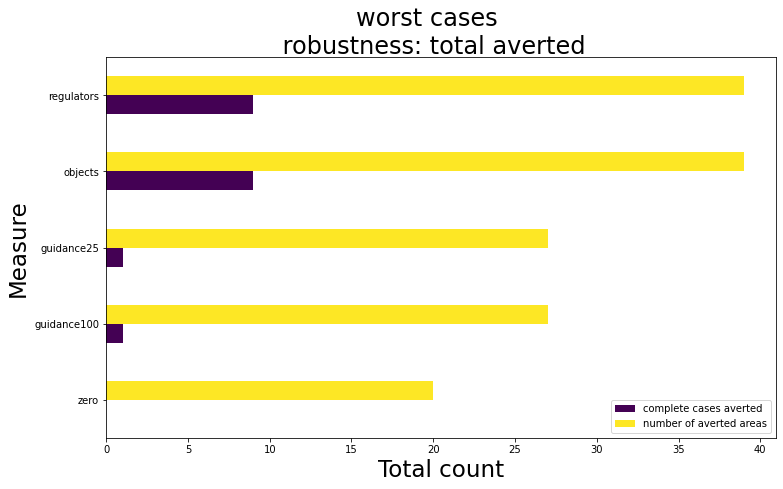
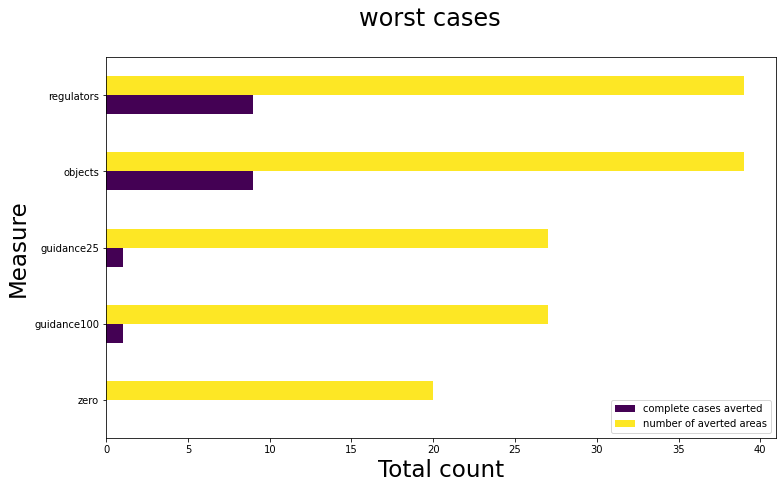
updated figures and docs

Changed region(s): [[0.3678, 0.0, 0.7663, 0.1227]]

diff --git a/analysis/control_exploration_results.py b/analysis/control_exploration_results.py
@@ -334,7 +334,7 @@ if __name__ == "__main__":
     r_averted_s3[["complete cases averted", "number of averted areas"]].plot.barh(
         ax=ax, colormap="viridis", rot=0
     ).legend(loc="lower right")
-    fig.suptitle("worst cases \n robustness: total averted", fontsize=24)
+    fig.suptitle("worst cases", fontsize=24)
     ax.set_xlabel("Total count", fontsize=23)
     ax.set_ylabel(ylabel="Measure", fontsize=23)
     fig.savefig("../figures/controlStrategiesAvertedS3.png", bbox_inches="tight")
@@ -344,10 +344,10 @@ if __name__ == "__main__":
     r_mean_variance_s1[["meanSpeed"]].plot.barh(
         ax=ax, colormap="viridis", rot=0, legend=False
     )
-    fig.suptitle("Problematic cases \n robustness: mean variance", fontsize=24)
-    ax.set_xlabel("Mean variance score (higher is better)", fontsize=23)
-    ax.set_ylabel("Measure", fontsize=23)
-    plt.yticks(fontsize=22, weight="bold")
+    fig.suptitle("Problematic cases", fontsize=28)
+    ax.set_xlabel("Mean variance score", fontsize=28)
+    ax.set_ylabel("Measure", fontsize=28)
+    plt.yticks(fontsize=28, weight="bold")
     fig.savefig(
         "../figures/controlStrategiesMeanVarianceSpeedS1.png", bbox_inches="tight"
     )
@@ -355,10 +355,10 @@ if __name__ == "__main__":
     r_mean_variance_s2[["meanSpeed"]].plot.barh(
         ax=ax, colormap="viridis", rot=0, legend=False
     )
-    fig.suptitle("Good cases \n robustness: mean variance", fontsize=24)
-    ax.set_xlabel("Mean variance score (higher is better)", fontsize=23)
-    ax.set_ylabel("Measure", fontsize=23)
-    plt.yticks(fontsize=22, weight="bold")
+    fig.suptitle("Good cases", fontsize=28)
+    ax.set_xlabel("Mean variance score", fontsize=28)
+    ax.set_ylabel("Measure", fontsize=28)
+    plt.yticks(fontsize=28, weight="bold")
     fig.savefig(
         "../figures/controlStrategiesMeanVarianceSpeedS2.png", bbox_inches="tight"
     )
@@ -366,10 +366,10 @@ if __name__ == "__main__":
     r_mean_variance_s3[["meanSpeed"]].plot.barh(
         ax=ax, colormap="viridis", rot=0, legend=False
     )
-    fig.suptitle("worst cases \n robustness: mean variance", fontsize=24)
-    ax.set_xlabel("Mean variance score (higher is better)", fontsize=23)
-    ax.set_ylabel("Measure", fontsize=23)
-    plt.yticks(fontsize=22, weight="bold")
+    fig.suptitle("worst cases", fontsize=28)
+    ax.set_xlabel("Mean variance score", fontsize=28)
+    ax.set_ylabel("Measure", fontsize=28)
+    plt.yticks(fontsize=28, weight="bold")
     fig.savefig(
         "../figures/controlStrategiesMeanVarianceSpeedS3.png", bbox_inches="tight"
     )
@@ -385,10 +385,10 @@ if __name__ == "__main__":
         }
     ).drop("meanSpeed")
     d1.plot.bar(ax=ax, colormap="viridis", rot=0)
-    fig.suptitle("Problematic cases \n robustness: mean variance", fontsize=24)
-    ax.set_xlabel("Measure", fontsize=23)
-    ax.set_ylabel("Mean variance score (higher is better)", fontsize=23)
-    plt.xticks(fontsize=22, weight="bold")
+    fig.suptitle("Problematic cases", fontsize=28)
+    ax.set_xlabel("Measure", fontsize=28)
+    ax.set_ylabel("Mean variance score", fontsize=28)
+    plt.xticks(fontsize=28, weight="bold")
     fig.savefig(
         "../figures/controlStrategiesMeanVarianceMaxDensityS1.png", bbox_inches="tight"
     )
@@ -402,10 +402,10 @@ if __name__ == "__main__":
         }
     ).drop("meanSpeed")
     d2.plot.bar(ax=ax, colormap="viridis", rot=0)
-    fig.suptitle("Good cases \n robustness: mean variance", fontsize=24)
-    ax.set_xlabel("Measure", fontsize=23)
-    ax.set_ylabel("Mean variance score (higher is better)", fontsize=23)
-    plt.xticks(fontsize=22, weight="bold")
+    fig.suptitle("Good cases", fontsize=28)
+    ax.set_xlabel("Measure", fontsize=28)
+    ax.set_ylabel("Mean variance score", fontsize=28)
+    plt.xticks(fontsize=28, weight="bold")
     fig.savefig(
         "../figures/controlStrategiesMeanVarianceMaxDensityS2.png", bbox_inches="tight"
     )
@@ -419,10 +419,10 @@ if __name__ == "__main__":
         }
     ).drop("meanSpeed")
     d3.plot.bar(ax=ax, colormap="viridis", rot=0)
-    fig.suptitle("Worst cases \n robustness: mean variance", fontsize=24)
-    ax.set_xlabel("Measure", fontsize=23)
-    ax.set_ylabel("Mean variance score (higher is better)", fontsize=23)
-    plt.xticks(fontsize=22, weight="bold")
+    fig.suptitle("Worst cases", fontsize=28)
+    ax.set_xlabel("Measure", fontsize=28)
+    ax.set_ylabel("Mean variance score", fontsize=28)
+    plt.xticks(fontsize=28, weight="bold")
     fig.savefig(
         "../figures/controlStrategiesMeanVarianceMaxDensityS3.png", bbox_inches="tight"
     )

diff --git a/README.md b/README.md
@@ -1,12 +1,25 @@
 # CrowdSim
 CrowdSim is the name of this repository holding all the contents in regard to thesis work for a Master of Science in Engineering and Policy Analysis at the Delft University of Technology. It includes:
 
-- An agent-based pedestrian crowd model made with Vadere
-- All used data files and other resources
-- Generated figures and data-analysis files
+- An agent-based pedestrian crowd model of the Grote Markt shopping area in Breda, The Netherlands, made with Vadere.
+ - The model files includes in the `model` directory can directly be loaded into the Vadere GUI
+ - All utilized Vadere model scenario files are present, including configurations used for validation purposes
+ - Individual model results are not included due to significant file sizes. These can however be generated by running the model yourself. Note that the seed is set for certain model configurations, such as ones used for validation purposes, to enable reproducibility.
+- All used data files and other resources in the `data` directory:
+ - GIS based images and data files
+ - Input datasets
+ - All generated outcomes using the EMA Workbench
+ - Script used for data conversion
+- An extensive collection of high resolution images and generated graphs
+- Utilities based on tools provided by the Vadere group
+ - The script used for converting OSM data to Vadere objects. 
+- The EMA Workbench connector to Vadere models
+ - Full source code
+ - Documentation and usage instructions
+
 
 # Requirements
-All Python related instances are tested with Python version 3.10.0. An overview of all requirements can be found in the requirements.txt file in the root of this repository. It is recommended to install them in an Python 3.10.0 evironments using:
+All Python related instances are tested with Python version 3.10.0. An overview of all requirements can be found in the requirements.txt file in the root of this repository. It is recommended to install them in an Python 3.10.0 environments using:
 
 `pip install -r requirements.txt`
 
@@ -17,4 +30,4 @@ To reproduce the work of this research in its full extent, related software is n
 - [The EMA Workbench](https://github.com/quaquel/EMAworkbench): This research includes the construction of a Vadere/EMA Workbench connector. Although the connector is additionally made available directly within this repository, a complete copy of the workbench including the newly constructed connector can be acquired here. In case the new connector is not yet available on the latest release, please refer to [this forked and publicly hosted version of the EMA workbench](https://github.com/floristevito/EMAworkbench), and check out the branch named "vadere_model_connector".
 
 ## Vadere
-This repository uses software from the Vadere library. This repository is therefore released under the same license as the Vadere library. All orginal, unmodified, Vadere related software can be found in the [Vadere repository](https://gitlab.lrz.de/vadere/vadere). 
+This repository is released under the same license as the Vadere library. All orginal, Vadere related software can be found in the [Vadere repository](https://gitlab.lrz.de/vadere/vadere). 
